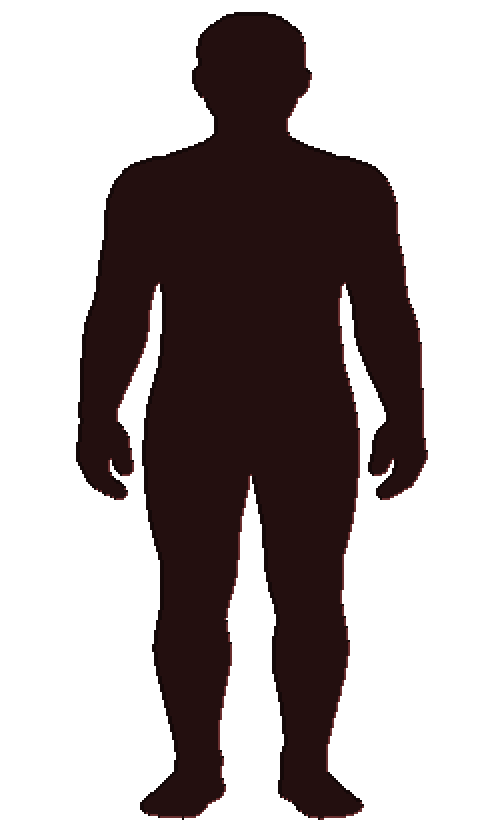
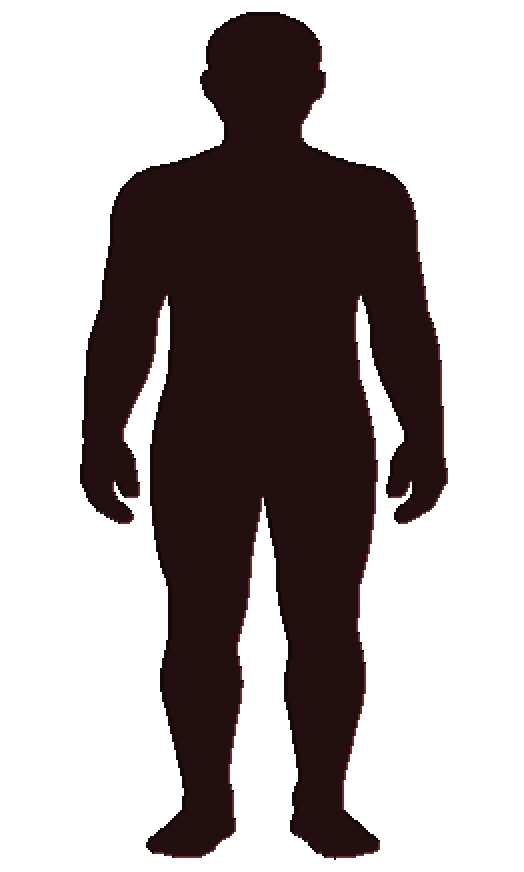
feat(cycling): grow the figure into the freed footer row
With the result line gone from the board, the carved figure takes its
row: it is traced again from the user's outline at 524 x 872, 1.048x
its round-1 size and the same ratio, and centred on the board, with the
status line and the Auto toggle moved down into the freed row. The
techniques' paths and zones are authored on the old footprint, so the
technique now scales its path (points, handles and zones) about the
figure's top-left corner; zones snap to even px so their sockets and
floaters stay on the 2 px grid.

diff --git a/docs/superpowers/mockups/cycling-view-lacquer/gen/kit_cycling.py b/docs/superpowers/mockups/cycling-view-lacquer/gen/kit_cycling.py
@@ -414,12 +414,16 @@ def dither():
 #   the ball rings: in 44 px cells, the brass ready ring, the tracking ring drawn
 #     solid (the checkerboard dots read as broken), and the ready ring grown by 1
 #     and 2 px for the breathing ball;
-#   the zone strip: the idle rim drawn solid, for the same reason.
+#   the zone strip: the idle rim drawn solid, for the same reason;
+#   the carved figure: traced again at 262 x 436 (524 x 872 on screen), 1.048x the
+#     round-1 footprint, into the row the result line left; the game scales every
+#     technique's path by the same 1.048 about the figure's top-left corner.
 # ----------------------------------------------------------------------------
 GAME_DIR = 'game'
 BREATH_SIZES = (30, 32, 34)
 GAME_BALL_CELL = 34
 GAME_RING_CELL = 44
+GAME_BODY = (262, 436)
 
 
 def _save_game(img, name):
@@ -465,7 +469,15 @@ def game_zones():
     _save_game(strip, 'cyc_zone_strip')
 
 
+def game_body():
+    std = REPO + 'assets/sprites/cycling/cycling_technique_outline.png'
+    w, h = GAME_BODY
+    sil = _fill(_line_from_alpha(std, (w, h), 96), w, h)
+    _save_game(carve(sil, w, h), 'cyc_body_carved')
+
+
 def game_kit():
+    game_body()
     game_ball()
     game_rings()
     game_zones()

diff --git a/docs/superpowers/mockups/cycling-view-lacquer/gen/import_cycling.py b/docs/superpowers/mockups/cycling-view-lacquer/gen/import_cycling.py
@@ -27,7 +27,6 @@ ICONS = "icons"
 
 # Copied byte for byte: source name -> folder under the destination.
 COPY = {
-    "lacquer_cyc_body_carved_ai.png": CYCLING,
     "lacquer_cyc_pellet_brass_ai.png": CYCLING,
     "lacquer_cyc_pellet_cream_ai.png": CYCLING,
     "lacquer_cyc_pellet_tan_ai.png": CYCLING,
@@ -41,6 +40,7 @@ COPY = {
 # the destination.
 GAME_DIR = "game"
 GAME = {
+    "lacquer_cyc_body_carved_ai.png": CYCLING,
     "lacquer_cyc_ball_strip_ai.png": CYCLING,
     "lacquer_cyc_ball_rings_ai.png": CYCLING,
     "lacquer_cyc_zone_strip_ai.png": CYCLING,
